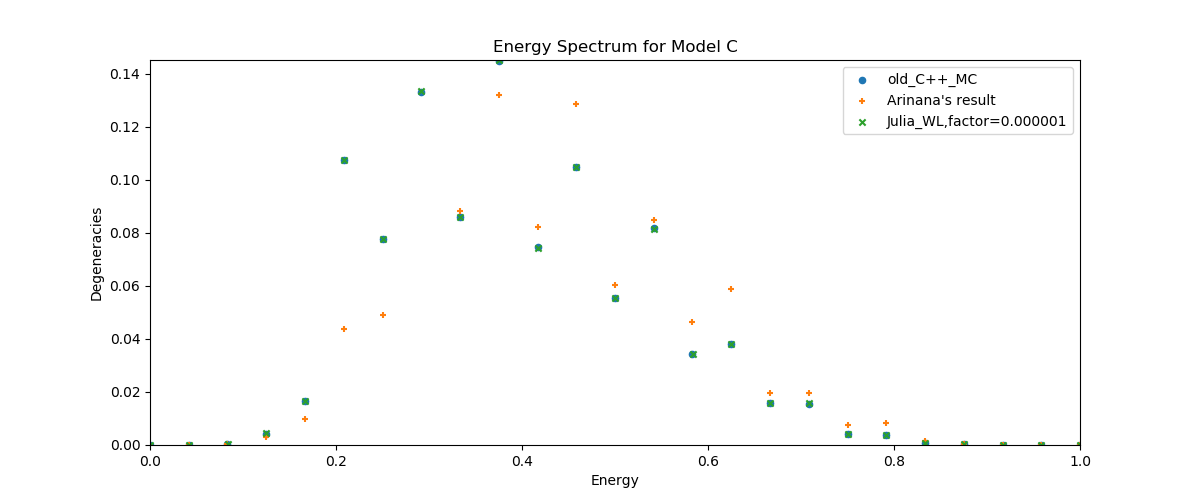
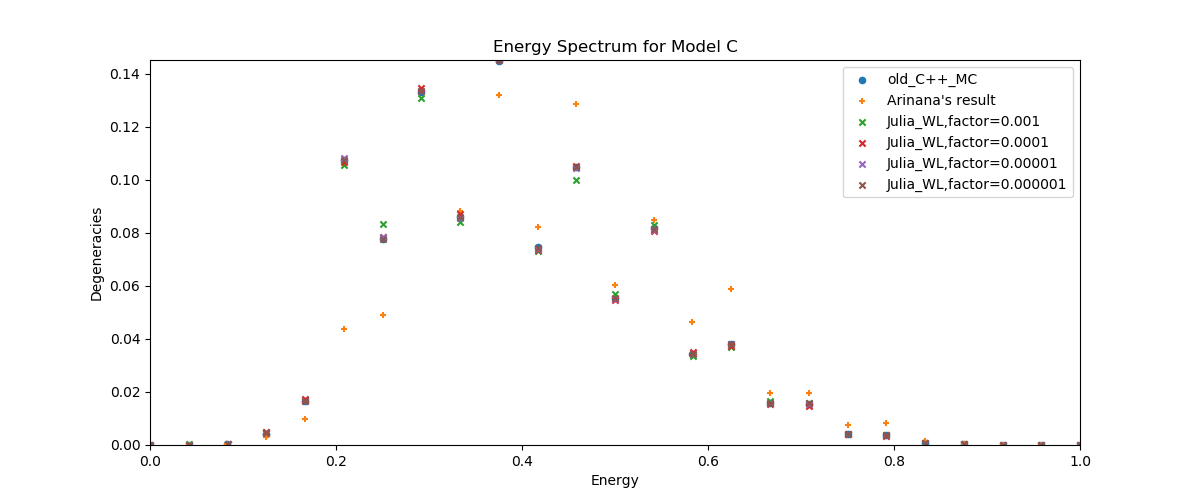
no bug comfirmed

diff --git a/data/(3,3,3,3)_model_A/plot01.py b/data/(3,3,3,3)_model_A/plot01.py
@@ -22,7 +22,7 @@ ax1.scatter(x,y,s=20,marker='+',label="Arinana's result")
 # y = data[:,1]
 # ax1.scatter(x,y,s=20,marker='+',label="new_Julia_WL")
 
-for i in range(5,6):
+for i in range(2,6):
     data = np.loadtxt('./0.{}1.dat'.format('0'*i))
     x = data[:,0]/24
     y = data[:,1]
